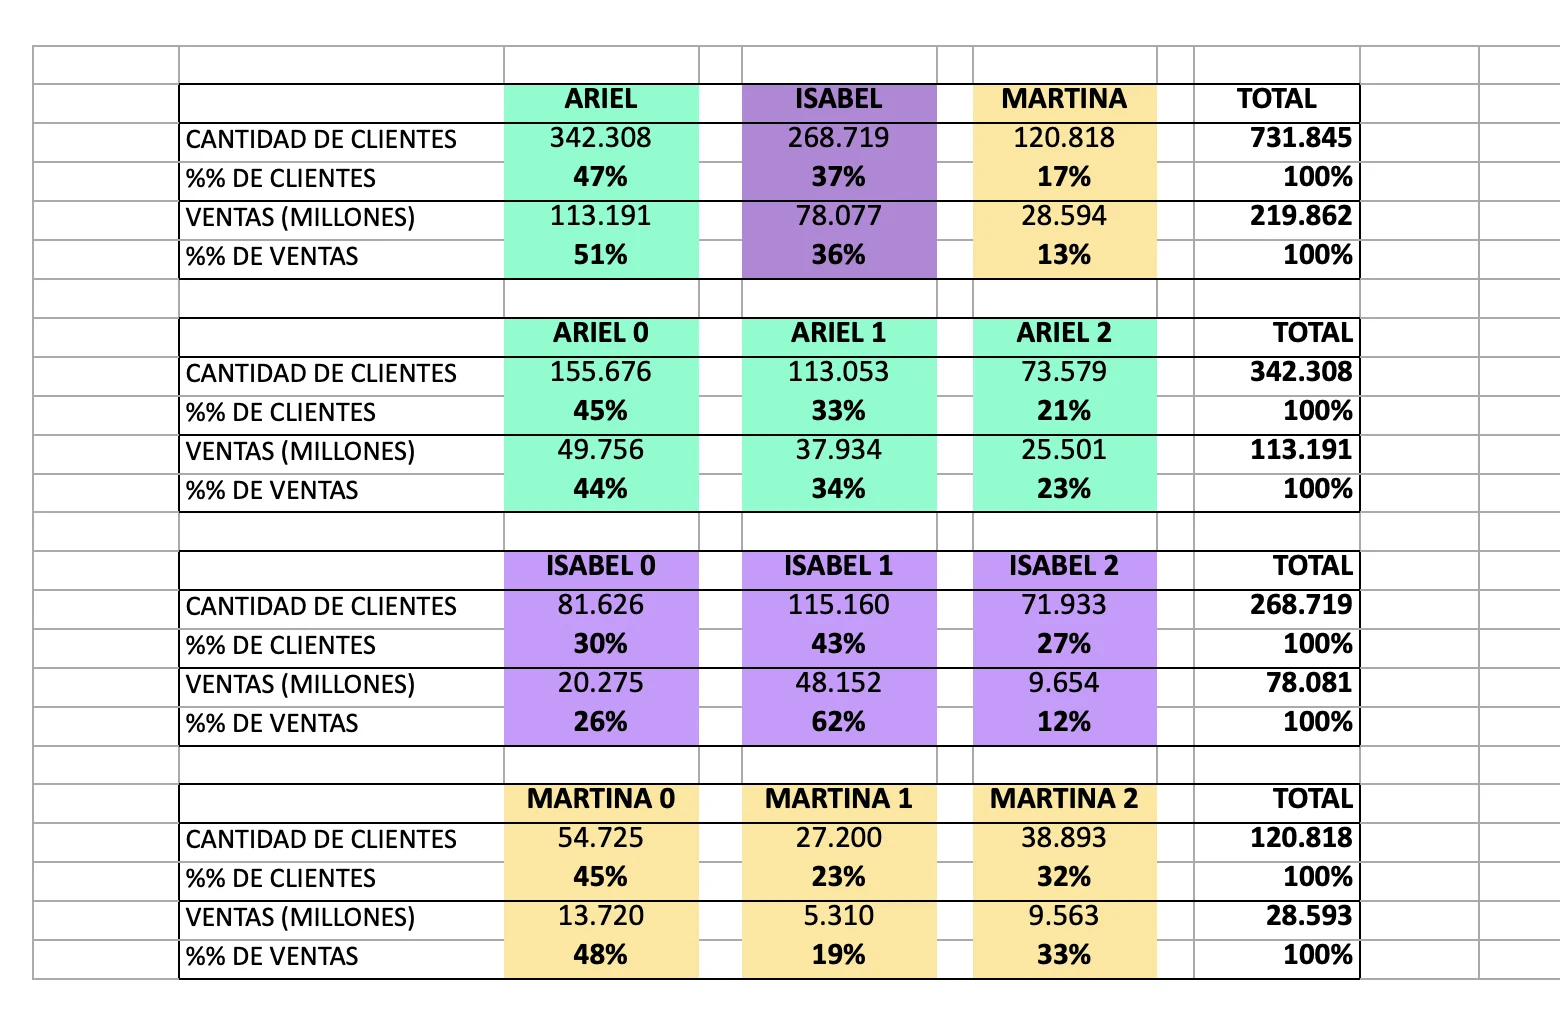
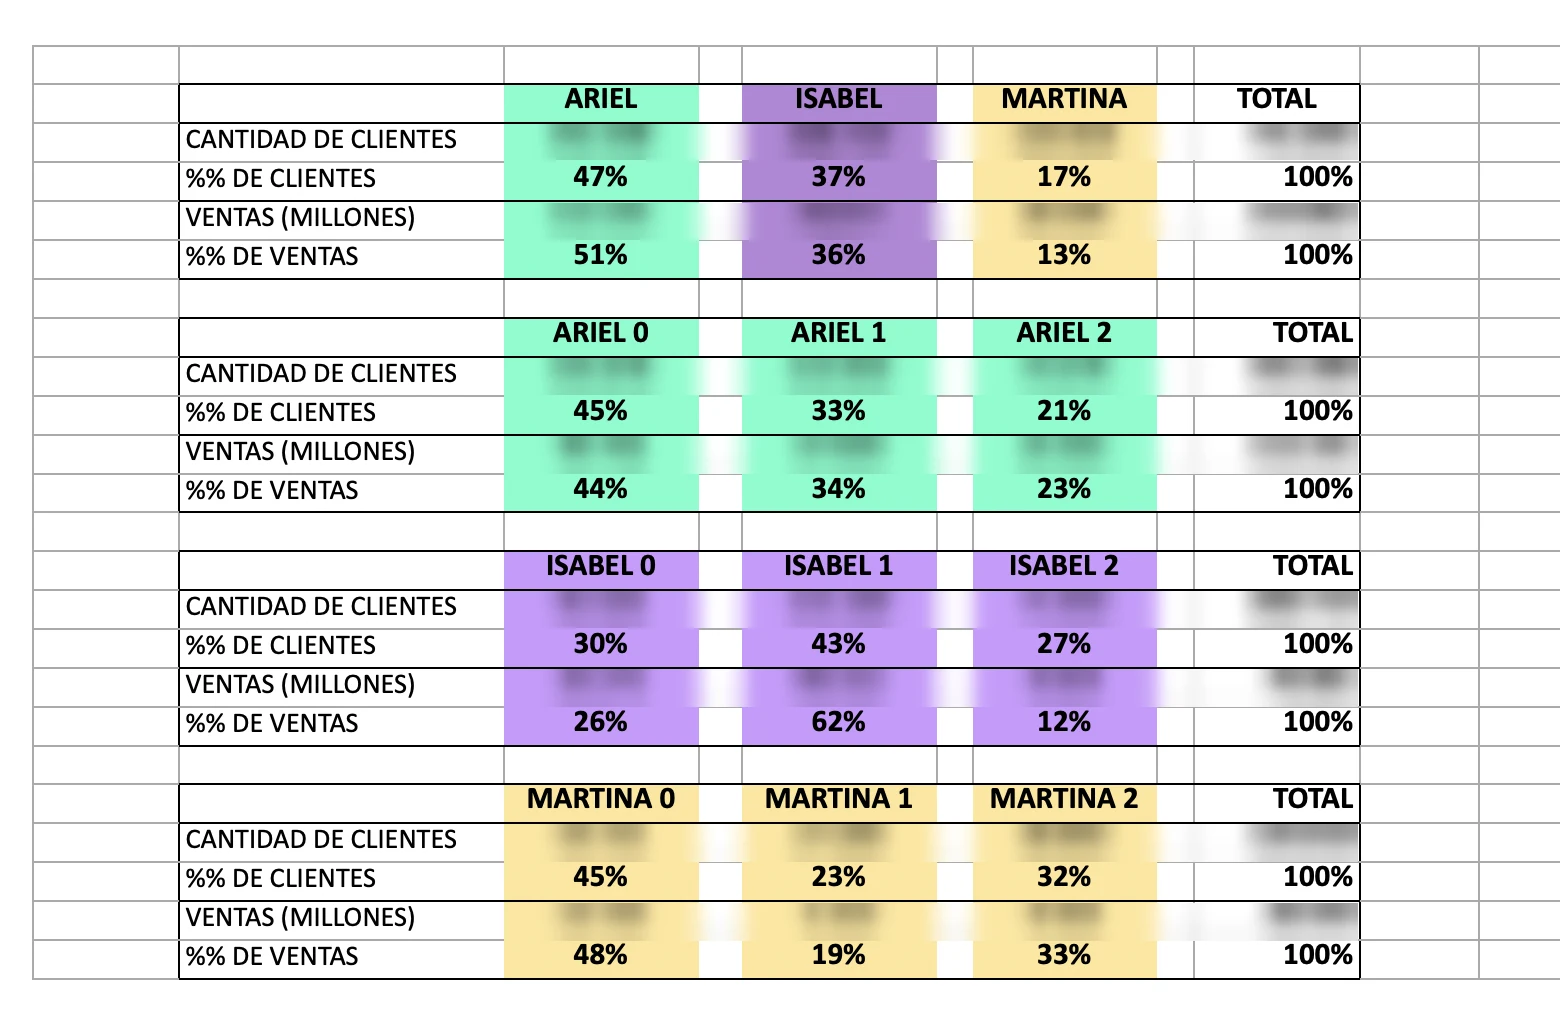
Difuminar cifras de la tabla de Personas y ajustar el orden de la exploración
Claude-Session: https://claude.ai/code/session_01SX7ieuCVKuz7jSPxpcxeLC

diff --git a/index.html b/index.html
@@ -354,7 +354,7 @@
 <section class="case-top"><div><div class="case-kicker">PARIS · 2025</div><h1>Personas basadas en datos</h1><p class="case-deck">Cuando llegué a este proyecto, los segmentos ya existían. Lo que me preocupaba era algo mucho más simple: que después de todo ese trabajo terminaran guardados en una carpeta que nadie volviera a abrir.</p><div class="case-meta"><div><small>MI ROL</small><b>Concepto de cartas, cajines y cierre de la iniciativa</b></div><div><small>CON QUIÉNES</small><b>UX · CX · BI · UI · Advanced Analytics</b></div></div></div><div class="case-hero-evidence caja-case-hero"><img src="assets/images/personas-paris-cover.webp" alt="Cartas de Personas Paris sobre una mesa"/><div class="caja-hero-caption">3 PERSONAS · 9 SUBTIPOS · CARTAS CON CAJÍN</div></div></section>
 <section class="log"><div class="log-row"><div class="log-label">01 · Problema</div><div class="log-body"><h2>Lo que estaba pasando</h2><p>Las personas anteriores podían tardar meses en producirse y después quedaban archivadas. El nuevo modelo cuantitativo reducía el problema de construcción, pero el resultado seguía siendo una tabla y fichas.</p><ol class="cx-funnel" aria-label="Del modelo de datos a las personas"><li><small>TRES AÑOS DE DATOS</small><strong>≈1,52 M</strong><span>clientes con al menos 5 compras anuales</span></li><li><small>CON DATOS COMPLETOS</small><strong>≈730 mil</strong><span>entraron al modelo</span></li><li><small>K-MEANS</small><strong>3</strong><span>personas: Isabel, Ariel y Martina</span></li><li><small>K-MODES</small><strong>9</strong><span>subtipos, uno por carta</span></li></ol><figure class="caja-figure"><img loading="lazy" src="assets/images/personas-paris-tabla-modelo.webp" alt="Tabla del modelo con cantidad de clientes, porcentaje de clientes, ventas en millones y porcentaje de ventas para Ariel, Isabel y Martina y sus subtipos"/><figcaption>Así llegaba el resultado del modelo: una tabla de clientes y ventas por persona y subtipo.</figcaption></figure></div></div>
 <div class="log-row"><div class="log-label">02 · Hipótesis</div><div class="log-body"><h2>Lo que creíamos al principio</h2><p>Mi hipótesis fue de circulación: si el conocimiento seguía viviendo como archivo, sería difícil incorporarlo a conversaciones de producto. Propuse convertir los nueve subtipos en cartas visibles, nombrables y comparables.</p></div></div>
-<div class="log-row"><div class="log-label">03 · Evidencia que cambió la dirección</div><div class="log-body"><h2>De fichas dibujadas a Cajín</h2><div class="turn"><b>La primera exploración fue dibujar personas. Después apareció una pregunta más propia de Paris: ¿por qué no usar a Cajín? También probé generaciones con IA; se sentían inquietantes y las descarté.</b></div><figure class="caja-figure"><img loading="lazy" src="assets/images/personas-paris-primera-version.webp" alt="Primera versión de las cartas de Ariel, con cajines dibujados sobre manchas de color"/><figcaption>La primera versión de las cartas, con cajines dibujados por mí.</figcaption></figure><figure class="caja-figure"><img loading="lazy" src="assets/images/personas-paris-cajines-ia.webp" alt="Versión anterior de las cartas de Ariel con cajines generados con IA, de ojos grandes y aspecto realista"/><figcaption>Una prueba con cajines generados con IA. Se veían inquietantes y la descarté.</figcaption></figure><figure class="caja-figure"><img loading="lazy" src="assets/images/personas-paris-exploracion.webp" alt="Cajín, la mascota de Paris, junto a bocetos a lápiz de cajines con distintos rasgos, ropa y accesorios"/><figcaption>Cajín, la mascota de Paris, como base (izquierda) y los bocetos a mano de los cajines para los subtipos.</figcaption></figure><a class="cx-video" href="https://www.youtube.com/watch?v=F1MN7k2sg1U" target="_blank" rel="noopener noreferrer"><div class="thumb"><img loading="lazy" src="assets/images/personas-paris-cover.webp" alt="Cartas de Personas Paris sobre una mesa"/><span class="play" aria-hidden="true"></span></div><div class="meta"><small>VIDEO · YOUTUBE</small><b>Conoce a Isabel, Ariel y Martina</b><span>Abrir en YouTube ↗</span></div></a></div></div>
+<div class="log-row"><div class="log-label">03 · Evidencia que cambió la dirección</div><div class="log-body"><h2>De fichas dibujadas a Cajín</h2><div class="turn"><b>La primera exploración fue dibujar personas. Después apareció una pregunta más propia de Paris: ¿por qué no usar a Cajín? También probé generaciones con IA; se sentían inquietantes y las descarté.</b></div><figure class="caja-figure"><img loading="lazy" src="assets/images/personas-paris-primera-version.webp" alt="Primera versión de las cartas de Ariel, con cajines dibujados sobre manchas de color"/><figcaption>La primera versión de las cartas, con cajines dibujados por mí.</figcaption></figure><figure class="caja-figure"><img loading="lazy" src="assets/images/personas-paris-cajines-ia.webp" alt="Versión anterior de las cartas de Ariel con cajines generados con IA, de ojos grandes y aspecto realista"/><figcaption>Después probé con cajines generados con IA. Se veían inquietantes, así que la descarté y volví a dibujarlos a mano.</figcaption></figure><figure class="caja-figure"><img loading="lazy" src="assets/images/personas-paris-exploracion.webp" alt="Cajín, la mascota de Paris, junto a bocetos a lápiz de cajines con distintos rasgos, ropa y accesorios"/><figcaption>Cajín, la mascota de Paris, como base (izquierda) y los bocetos a mano de los cajines para los subtipos.</figcaption></figure><a class="cx-video" href="https://www.youtube.com/watch?v=F1MN7k2sg1U" target="_blank" rel="noopener noreferrer"><div class="thumb"><img loading="lazy" src="assets/images/personas-paris-cover.webp" alt="Cartas de Personas Paris sobre una mesa"/><span class="play" aria-hidden="true"></span></div><div class="meta"><small>VIDEO · YOUTUBE</small><b>Conoce a Isabel, Ariel y Martina</b><span>Abrir en YouTube ↗</span></div></a></div></div>
 <div class="log-row"><div class="log-label">04 · Decisión y trade-off</div><div class="log-body"><h2>Lo que hicimos después</h2><p>Las cartas conservaron sexo, generación, NSE y comportamientos de compra; la profundización siguió en fichas. El sistema se completó con guía de uso, casos de uso por equipo, presentación, quiz y SharePoint.</p><div class="cx-anatomy"><div class="keep"><span class="cx-kick">QUEDÓ EN LA CARTA</span><div class="cx-chips"><span>sexo</span><span>generación</span><span>nivel socioeconómico</span><span>omnicanalidad</span><span>vitrineo online</span><span>frecuencia por canal y día</span></div></div><div class="out"><span class="cx-kick">PASÓ A LAS FICHAS</span><div class="cx-chips"><span>regiones</span><span>categorías más compradas</span><span>segunda capa de profundización</span></div></div></div><figure class="caja-figure cx-cards"><div class="cx-cards-grid"><img loading="lazy" src="assets/images/personas-carta-isabel-1.webp" alt="Carta Isabel tipo 1: cajín ilustrado con generación, omnicanalidad, vitrineo online y frecuencia de compra por canal y día"/><img loading="lazy" src="assets/images/personas-carta-isabel-2.webp" alt="Carta Isabel tipo 2: cajín ilustrado con generación, omnicanalidad, vitrineo online y frecuencia de compra por canal y día"/><img loading="lazy" src="assets/images/personas-carta-isabel-3.webp" alt="Carta Isabel tipo 3: cajín ilustrado con generación, omnicanalidad, vitrineo online y frecuencia de compra por canal y día"/><img loading="lazy" src="assets/images/personas-carta-ariel-1.webp" alt="Carta Ariel tipo 1: cajín ilustrado con generación, omnicanalidad, vitrineo online y frecuencia de compra por canal y día"/><img loading="lazy" src="assets/images/personas-carta-martina-1.webp" alt="Carta Martina tipo 1: cajín ilustrado con generación, omnicanalidad, vitrineo online y frecuencia de compra por canal y día"/></div><figcaption>Cinco de las nueve cartas finales. Cada subtipo tiene su cajín en un escenario de compra y solo los datos que quedaron en la carta.</figcaption></figure></div></div>
 <div class="log-row"><div class="log-label">05 · Impacto, resultados y límites</div><div class="log-body"><h2>Qué cambió y qué pudimos demostrar</h2><p>El cierre dejó 3 personas y 9 subtipos. En una conversación con el gerente de Paris.cl esperábamos que su interés fuera hacia Martina, el cliente más digital; se fijó en Ariel, el cliente omnicanal con mayor peso en ventas, y en cómo llegar a él — el foco de la conversación cambió por este trabajo. La evidencia concreta de reutilización que sí puedo mostrar es Martina como protagonista del storyboard de Fast Checkout. El quiz tuvo 27 personas conectadas: participación, no adopción.</p><figure class="cx-figure cx-barfig" aria-label="Porcentaje de clientes y de ventas por persona"><div class="cx-head"><div><span class="cx-kick">PESO DE CADA PERSONA</span><h3>Ariel reúne la mayor parte de los clientes y de las ventas</h3></div><div class="cx-legend"><span><i class="sq"></i>% de ventas</span><span><i class="sq ref"></i>% de clientes</span></div></div><div class="cx-bars"><div class="cx-group"><small>Ariel</small><div class="cx-row" data-tip="Ariel · % de clientes: 47%"><span class="cx-rl">% de clientes</span><div class="cx-track"><div class="cx-bar ref" style="--v:47"></div></div><b>47%</b></div><div class="cx-row" data-tip="Ariel · % de ventas: 51%"><span class="cx-rl">% de ventas</span><div class="cx-track"><div class="cx-bar" style="--v:51"></div></div><b>51%</b></div></div><div class="cx-group"><small>Isabel</small><div class="cx-row" data-tip="Isabel · % de clientes: 37%"><span class="cx-rl">% de clientes</span><div class="cx-track"><div class="cx-bar ref" style="--v:37"></div></div><b>37%</b></div><div class="cx-row" data-tip="Isabel · % de ventas: 36%"><span class="cx-rl">% de ventas</span><div class="cx-track"><div class="cx-bar" style="--v:36"></div></div><b>36%</b></div></div><div class="cx-group"><small>Martina</small><div class="cx-row" data-tip="Martina · % de clientes: 17%"><span class="cx-rl">% de clientes</span><div class="cx-track"><div class="cx-bar ref" style="--v:17"></div></div><b>17%</b></div><div class="cx-row" data-tip="Martina · % de ventas: 13%"><span class="cx-rl">% de ventas</span><div class="cx-track"><div class="cx-bar" style="--v:13"></div></div><b>13%</b></div></div></div><p class="cx-note">Fuente: Excel del modelo, 731.845 clientes. Los porcentajes de una presentación anterior difieren de esta versión.</p><details class="cx-table"><summary>Ver como tabla</summary><table><thead><tr><th>PERSONA</th><th>% CLIENTES</th><th>% VENTAS</th></tr></thead><tbody><tr><td>Ariel</td><td>47%</td><td>51%</td></tr><tr><td>Isabel</td><td>37%</td><td>36%</td></tr><tr><td>Martina</td><td>17%</td><td>13%</td></tr></tbody></table></details></figure><figure class="caja-figure cx-wide"><div class="cx-wide-scroll"><img loading="lazy" src="assets/images/personas-paris-storyboard-martina.webp" alt="Storyboard de Fast Checkout en tres etapas, antes, durante y después, con Martina comprando una polera con Comprar ahora, eligiendo retiro en tienda y pagando con su tarjeta guardada"/></div><figcaption>Martina como protagonista del storyboard de Fast Checkout: antes, durante y después de la compra.</figcaption></figure></div></div>
 <div class="log-row"><div class="log-label">06 · Reflexión</div><div class="log-body"><h2>Diseñar el artefacto no era suficiente</h2><p>El desafío no era crear otra ficha de personas, sino aumentar las posibilidades de que el conocimiento apareciera en conversaciones reales de producto. Por eso el trabajo terminó incluyendo cartas, guía, casos de uso, presentación, quiz y un espacio compartido; y separé participación de adopción para no atribuir un impacto que no podía demostrar.</p><div class="cx-callouts"><div class="cx-learn"><span class="cx-kick">LO QUE ME LLEVO</span><ul><li>El problema de un entregable a veces no es su calidad sino que nadie lo abre. Diseñar el formato es parte del trabajo.</li><li>Un modelo que descubre grupos no genera empatía por sí solo. El nombre y la cara fueron lo que permitió conversar sobre ellos.</li></ul></div></div></div></div></section><div class="case-next"><a class="back-home" href="?">← Volver al inicio</a><span class="mono">PERSONAS PARIS</span></div><section class="contact"><div class="contact-title"><div class="kick">CONTACTO</div><h2>Hablemos</h2></div><div><p>Disponible para roles Senior Product Designer / UX Senior — opciones híbridas o remotas.</p><p class="contact-location">Temuco, Chile</p><div class="contact-actions"><a class="hero-cv" href="https://www.linkedin.com/in/matiaspalmas/" target="_blank" rel="noopener noreferrer">LinkedIn ↗</a><a class="hero-cv" href="mailto:mapsmati@gmail.com">Correo ↗</a></div></div></section>
